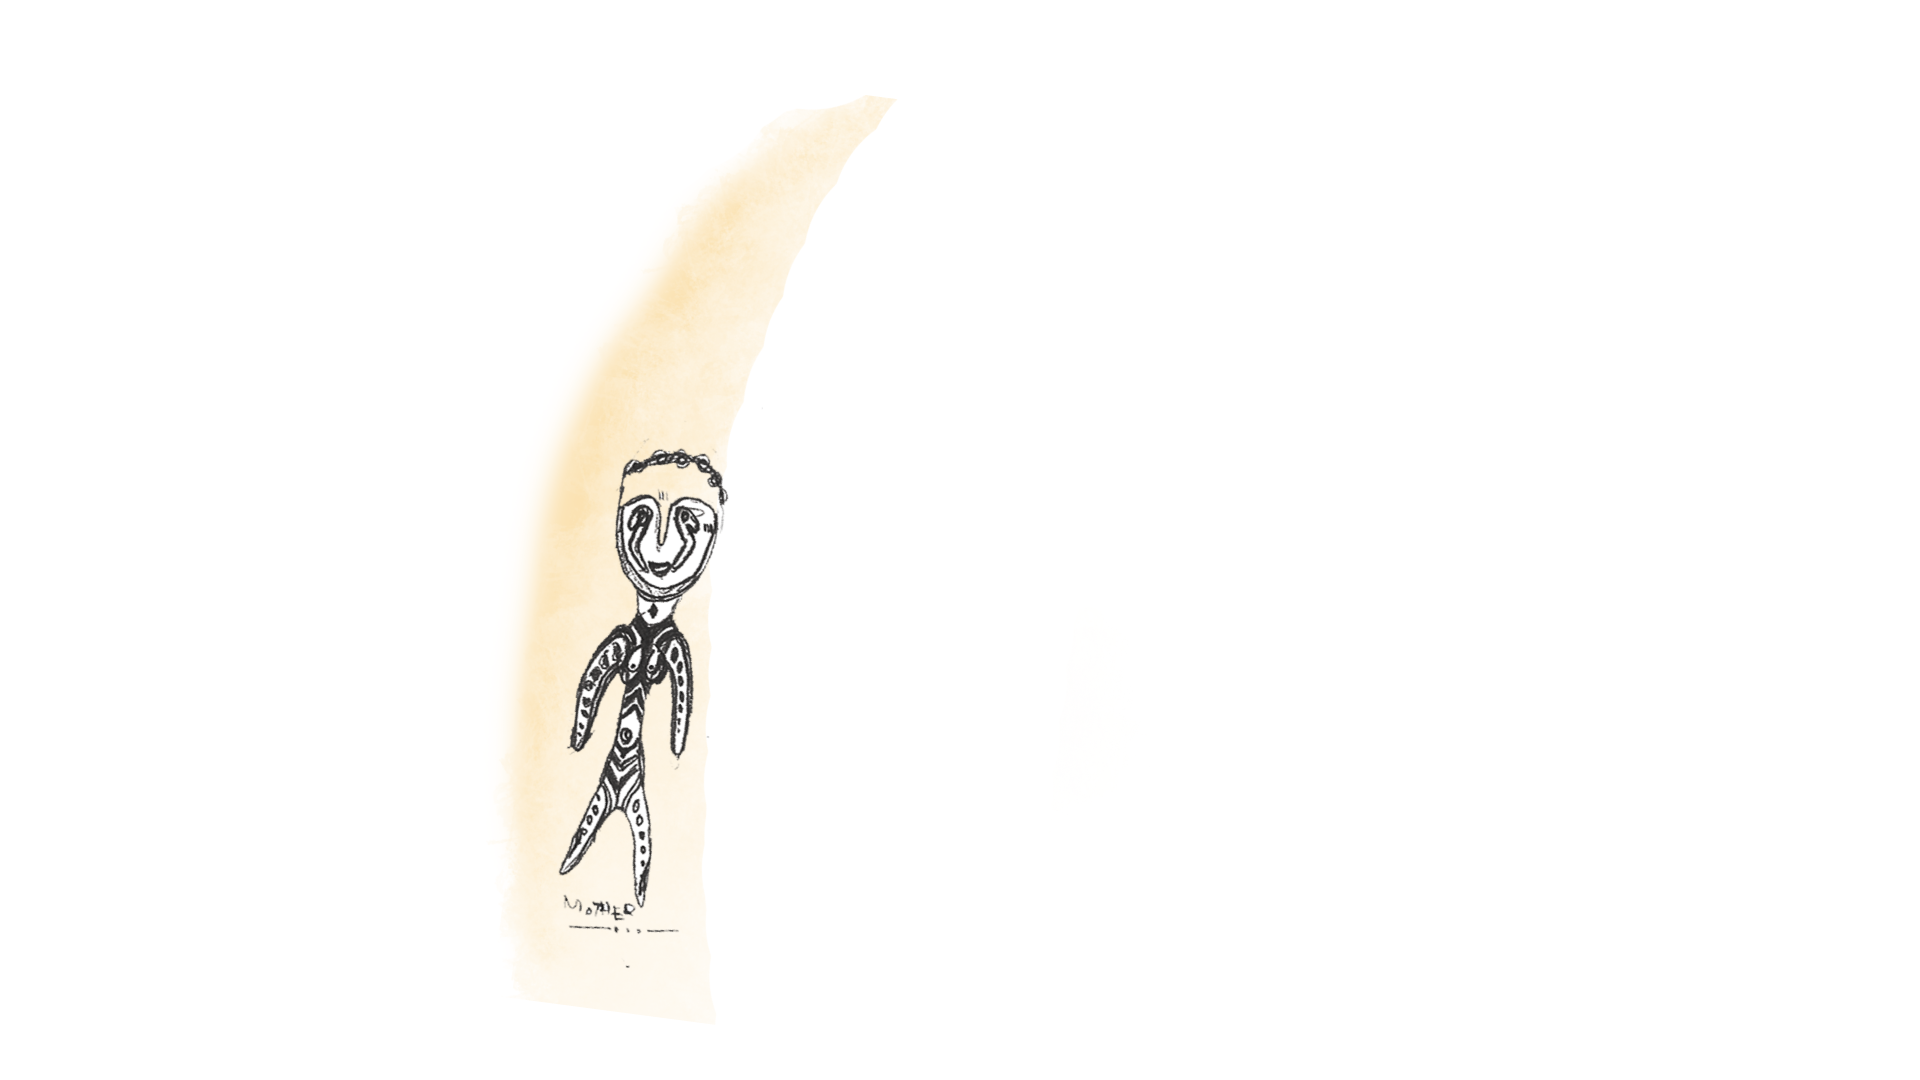
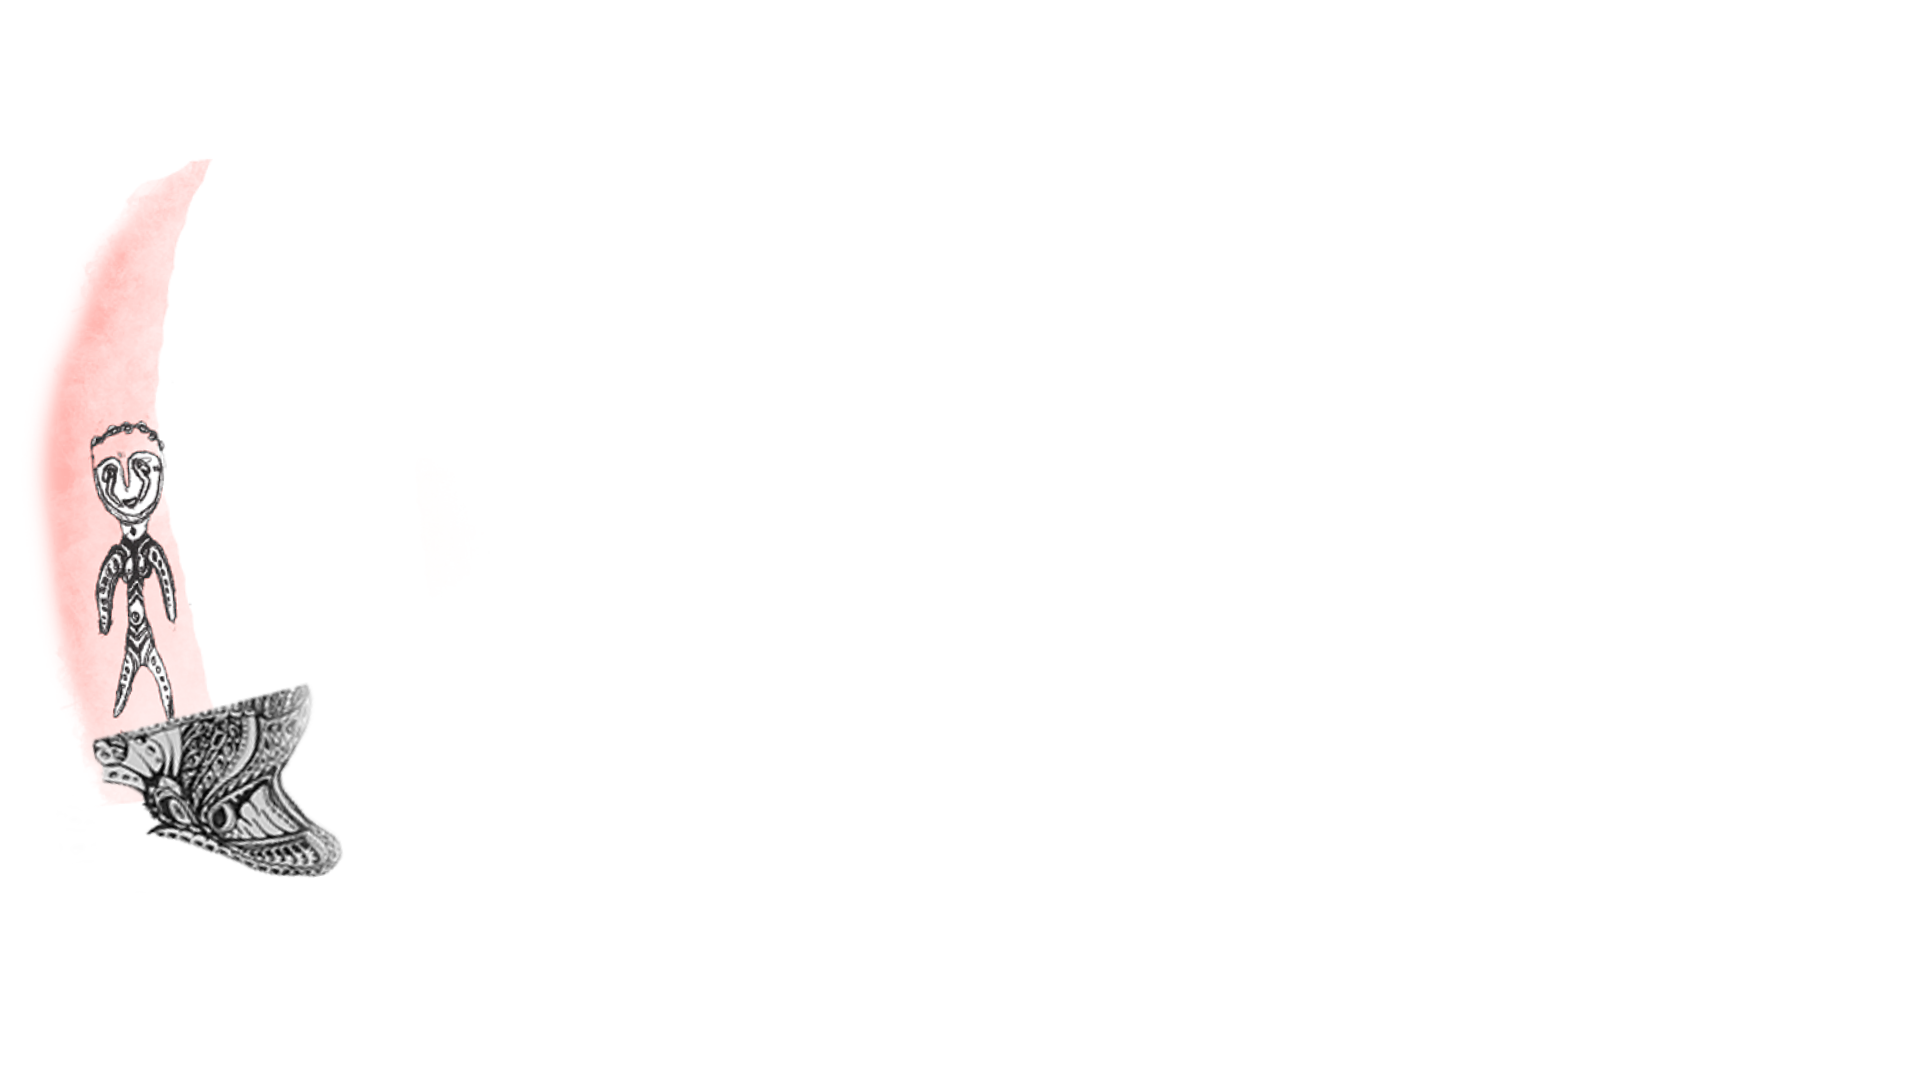
Updates

Changed region(s): [[0.25, 0.0917, 0.4688, 0.8861], [0.0, 0.1528, 0.1875, 0.825]]

diff --git a/css/main.css b/css/main.css
@@ -3,22 +3,6 @@
 /*-----X------ partials imports ------X-----*/
 /*----------- @Mixins -----------*/
 /*----------- Light & Dark Theme -----------*/
-.menu-nav__item:nth-child(1) {
-  -webkit-transition-delay: 0.175s;
-          transition-delay: 0.175s; }
-
-.menu-nav__item:nth-child(2) {
-  -webkit-transition-delay: 0.245s;
-          transition-delay: 0.245s; }
-
-.menu-nav__item:nth-child(3) {
-  -webkit-transition-delay: 0.315s;
-          transition-delay: 0.315s; }
-
-.menu-nav__item:nth-child(4) {
-  -webkit-transition-delay: 0.385s;
-          transition-delay: 0.385s; }
-
 .content-wrapper .home {
   display: -webkit-box;
   display: -ms-flexbox;
@@ -45,8 +29,6 @@
   @media only screen and (min-width: 1024px) and (orientation: landscape) {
     .content-wrapper .home {
       padding: 0 16%; } }
-  .content-wrapper .home h2 {
-    padding: 1.2rem; }
   .content-wrapper .home p {
     font-size: 0.98rem; }
     @media only screen and (min-width: 1025px) and (orientation: landscape) {
@@ -91,7 +73,9 @@
             align-items: center;
     -webkit-box-pack: center;
         -ms-flex-pack: center;
-            justify-content: center; }
+            justify-content: center;
+    background: url(../img/background-man.png) center center;
+    background-size: cover; }
     @media only screen and (device-width: 1rem), screen and (orientation: landscape) {
       .content-wrapper .home__box-two {
         padding: 4rem 0 0 0; } }
@@ -109,8 +93,8 @@
       .content-wrapper .home__box-two {
         padding: 2.3rem 0; } }
     .content-wrapper .home__box-two h3 {
-      font-size: 3.2rem;
-      line-height: 0.8em;
+      font-size: 3rem;
+      line-height: 0.7em;
       text-align: center;
       font-weight: normal;
       text-transform: lowercase;
@@ -142,7 +126,8 @@
       text-align: left;
       display: -webkit-box;
       display: -ms-flexbox;
-      display: flex; }
+      display: flex;
+      padding-bottom: 0.5rem; }
       @media only screen and (min-width: 640px) and (orientation: portrait) {
         .content-wrapper .home__box-two h3::before {
           font-size: 2.18rem; } }
@@ -201,9 +186,11 @@
       display: flex;
       -webkit-box-pack: center;
           -ms-flex-pack: center;
-              justify-content: center; }
+              justify-content: center;
+      background: url(../img/background-man1.png) center center;
+      background-size: cover; }
       .content-wrapper .home__box-three .svg-container svg {
-        width: 74%;
+        width: 66%;
         height: auto; }
         @media only screen and (device-width: 1rem), screen and (orientation: landscape) {
           .content-wrapper .home__box-three .svg-container svg {
@@ -259,6 +246,22 @@
       font-size: 1.2rem;
       font-family: "Roboto", sans-serif;
       border-top: 1px solid brown; }
+
+.menu-nav__item:nth-child(1) {
+  -webkit-transition-delay: 0.175s;
+          transition-delay: 0.175s; }
+
+.menu-nav__item:nth-child(2) {
+  -webkit-transition-delay: 0.245s;
+          transition-delay: 0.245s; }
+
+.menu-nav__item:nth-child(3) {
+  -webkit-transition-delay: 0.315s;
+          transition-delay: 0.315s; }
+
+.menu-nav__item:nth-child(4) {
+  -webkit-transition-delay: 0.385s;
+          transition-delay: 0.385s; }
 
 #project-index {
   -webkit-animation: breadCrumb 8s infinite linear alternate;
